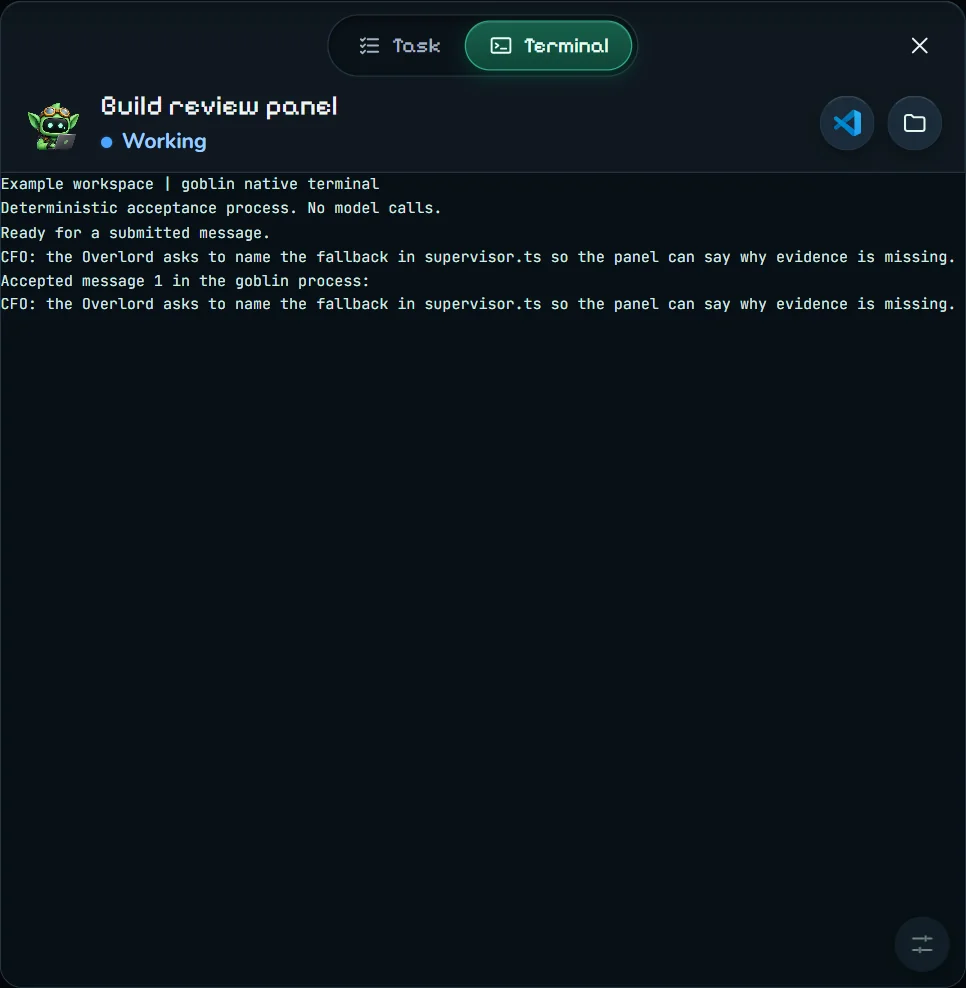
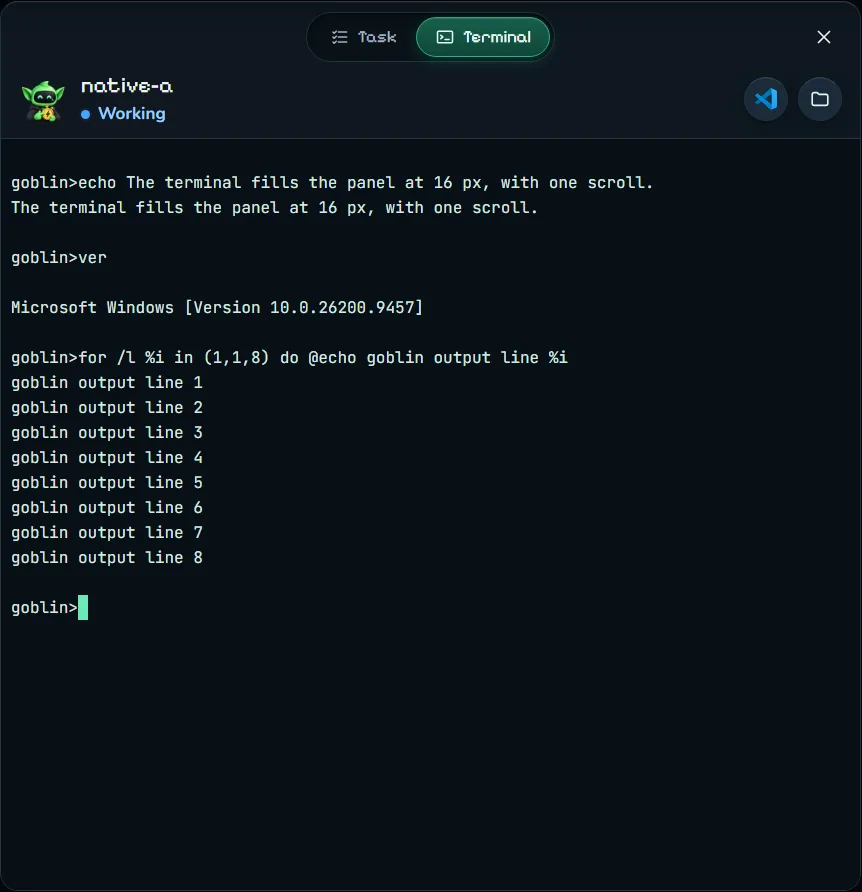
docs(board): describe the native terminal panel
README BEFORE WRAP-UP: Using the board and the native board guide now say how a native goblin's terminal opens, sizes, scrolls and paces its output, with the measured latency.

diff --git a/docs/native-board.md b/docs/native-board.md
@@ -171,9 +171,10 @@ Drafts bind the task session identity at selection and survive view, file and re
 An unchanged submitted payload keeps its request ID after an ambiguous HTTP failure; an SSE outcome is displayed instead of dispatching it again.
 An interrupted external delivery becomes uncertain and is not replayed automatically.
 
+A goblin panel's Terminal view shows a task in a native terminal from its host, as described after this Herdr view, and the CFO and a task in Herdr through Herdr.
 The installed Herdr build `0.9.0-preview.2026-09-08-62431dbd033b` exposes `terminal session observe` and `terminal session control` over NDJSON.
 The browser renders its real ANSI screen frames using xterm, loaded the first time a panel shows its Terminal view.
-A goblin panel's Terminal view is a live view of the pane: it never claims the native controller, never resizes the pane and never resumes an agent.
+A goblin panel's Terminal view of a Herdr pane is a live view of the pane: it never claims the native controller, never resizes the pane and never resumes an agent.
 Frames arrive at the pane's own size as Herdr lays it out; the view shrinks its font to fit the pane's columns across the panel, never below 12 px, and a wider or taller pane scrolls inside the panel rather than being cropped.
 A view is refused when Herdr reports no size for the pane; when Herdr lays the pane out at a new size the view ends, and the panel reconnects on its own to show it whole.
 Typing needs no separate step: the view's lease takes keys, escape sequences and one bracketed paste at a time, in order, each typed into that exact pane by Herdr.
@@ -191,13 +192,23 @@ The default xterm input mode accepts InsertText/IME Unicode; its optional screen
 There is no second model session or generated reply.
 The native interface exposes rendered screen updates rather than original historical PTY bytes, and omits Kitty keyboard negotiation, graphics and host mouse notifications.
 
-A task whose record names the `native` backend runs in a `cfo host` of its own, and `GET /api/terminal/native?task=ID&generation=GEN&token=TOKEN` relays one view of it over a WebSocket; the board does not open it yet.
+A task whose record names the `native` backend runs in a `cfo host` of its own, and `GET /api/terminal/native?task=ID&generation=GEN&token=TOKEN` relays one view of it over a WebSocket; a goblin panel's Terminal view opens it for every such task, and the snapshot names each task's `backend` so the board knows which view to open.
 The upgrade needs the board's own origin and the board's token in the query, since a browser cannot set a WebSocket header, and anything else is refused with 403.
 Every later refusal closes the socket with its reason, which a browser can read: a replaced generation, a task that runs in Herdr, no running host, a host that did not answer, or four views already open.
 The view is bound to its terminal once, by the host's pipe, whose server process must be the host the record names, so a key costs no check and starts no process.
 Output arrives as binary messages, the host's history first; typing goes back as binary messages, and a resize as the text message `{"type":"resize","cols":C,"rows":R}`.
+The pseudo console repaints its whole window on every resize, even to the size it already has, so a view replays the history and then sends its size, and its screen is whole however much of the history the host still keeps; the host starts a replay at the next line or escape sequence past its 4 MiB limit, never inside one.
+Every view of the terminal is told the size the terminal took as `{"type":"size","cols":C,"rows":R}`, so a second window draws the output at that size until it is typed into, which sizes the terminal to it; a size under 20 columns or 5 rows, measured while a panel was hidden, is ignored.
+A view acknowledges the output it has drawn with `{"type":"ack","bytes":N}`, N counting every output byte so far: the relay sends a view at most 1 MiB beyond what it acknowledged and keeps reading the host, and a view that falls 8 MiB behind is closed with code 1013 and "The view fell behind the terminal's output.", so the host never waits on a slow window and a view that stays open never loses a byte.
 Gate custody and the task's generation are checked when the view opens and on every five-second tick; a key sent under custody closes the view with the gate's reason and is not typed, and a resize sent under custody is ignored, so the terminal keeps its size until a resize arrives after custody ends.
 The terminal's end closes the view with its exit code in the reason.
+
+The board draws a native terminal with xterm at the panel's size: its fit addon measures the columns and rows the panel holds and the view sends them as the resize, so the program and the view agree on the size.
+The font starts at 16 px; Ctrl+Plus and Ctrl+Minus step it between 12 and 28 px and Ctrl+0 restores it, saved in the browser.
+The terminal keeps 5,000 lines of scrollback and the wheel scrolls it; the panel around it never scrolls.
+Until the first output is drawn a full-pane state says the terminal is connecting; a view that fell behind, a restarting board or a dropped connection reconnects on its own up to five times, and any other close shows its reason with Reconnect.
+A paste goes as it is typed, in pieces of at most 64 KiB, in order.
+Key-to-echo latency, measured with `tests/acceptance/terminal_latency.mjs` against the example fixture on 25 September 2026: the Herdr view on main e6f7ea97 took p50 74 ms and p95 592 ms with 3 of 100 keys unechoed after 5 seconds and 4.6 s to a live screen, and the native view p50 24 ms and p95 34 to 36 ms with none missed and 0.4 s to a live screen.
 
 CFO transport reads the `state/primary.json` registration and binds each queued message to its fingerprint.
 The primary CFO writes that registration itself: Claude's SessionStart hook does it after the digest settles custody, and the Codex and Pi native SessionStart hooks do it for a session with no task.

diff --git a/README.md b/README.md
@@ -227,10 +227,14 @@ Clicking a card or a node opens the same goblin panel from either view: who the 
 A pill at the top switches between the **Task** view and the **Terminal** view in one tap.
 A live goblin's card also carries a terminal button that opens its panel straight on the Terminal view.
 The Task view shows **Workspace** with the repository, branch and exact working folder, **Connectors** with a mark for every harness, model provider, MCP server and credential (configured is not the same as connected, and no secret values are shown), then **Changes**, **Activity** and **History**.
-The Terminal view is the goblin's live Herdr pane, edge to edge: type straight into it, drag to select and the selection is copied, and **Shift+Escape** moves the keyboard back out.
+The Terminal view is the goblin's live terminal, edge to edge.
+A goblin in a native terminal (`cfo spawn --backend native`) is drawn from its terminal's own output at the panel's size, in a readable 16 px font: type straight into it, scroll its history with the wheel, and use **Ctrl+Plus**, **Ctrl+Minus** and **Ctrl+0** to change the font size.
+Opening it replays the terminal's history and repaints its screen, so it never opens blank, and a full-pane state shows while it connects.
+A goblin still in Herdr shows its Herdr pane at the pane's own size.
+In both, drag to select and the selection is copied, and **Shift+Escape** moves the keyboard back out.
 
 <p align="center">
-  <img src="docs/images/goblin-panel.webp" alt="The goblin panel on its Terminal view: the goblin's live Herdr pane showing a CFO message it accepted, with Open in VS Code and Open folder in the header" width="600" />
+  <img src="docs/images/goblin-panel.webp" alt="The goblin panel on its Terminal view: a goblin's native terminal drawn edge to edge at the panel's size in a 16 px font, with Open in VS Code and Open folder in the header" width="600" />
 </p>
 
 ### Sending a diff comment to the CFO
